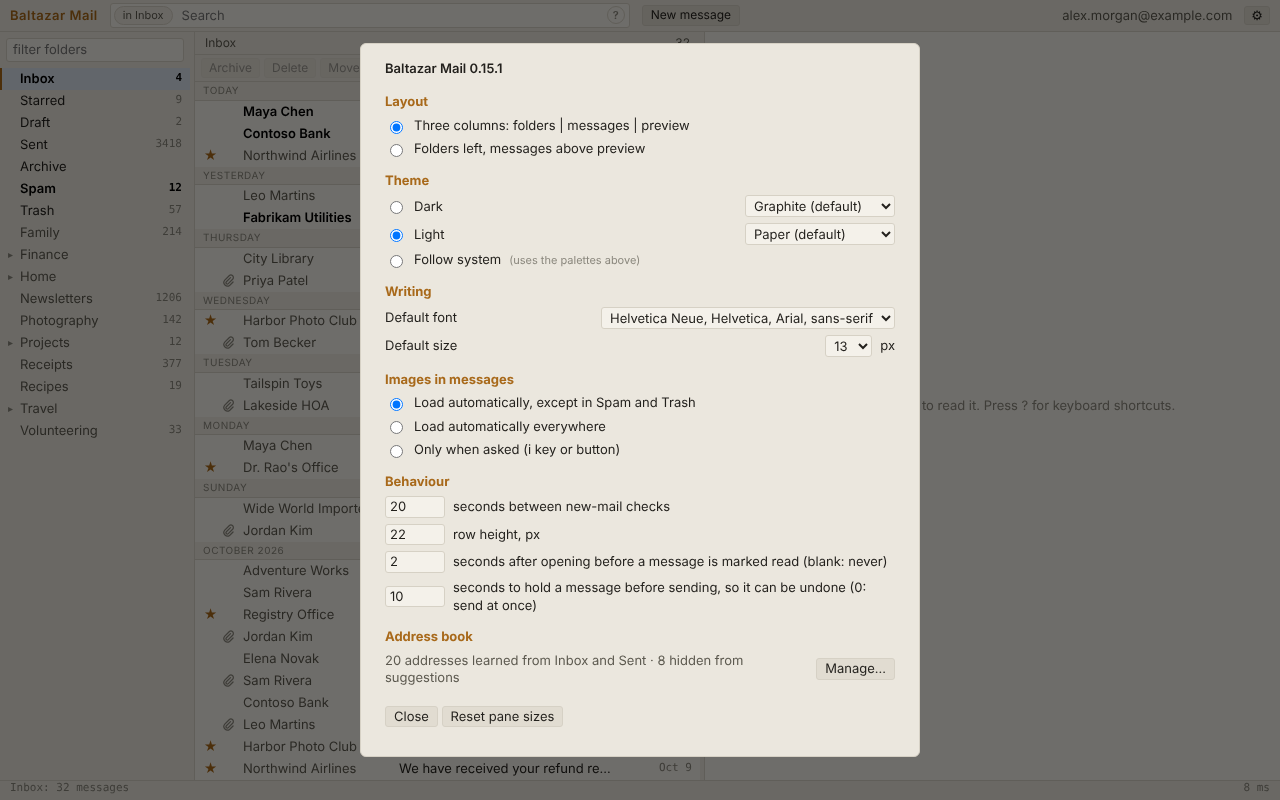
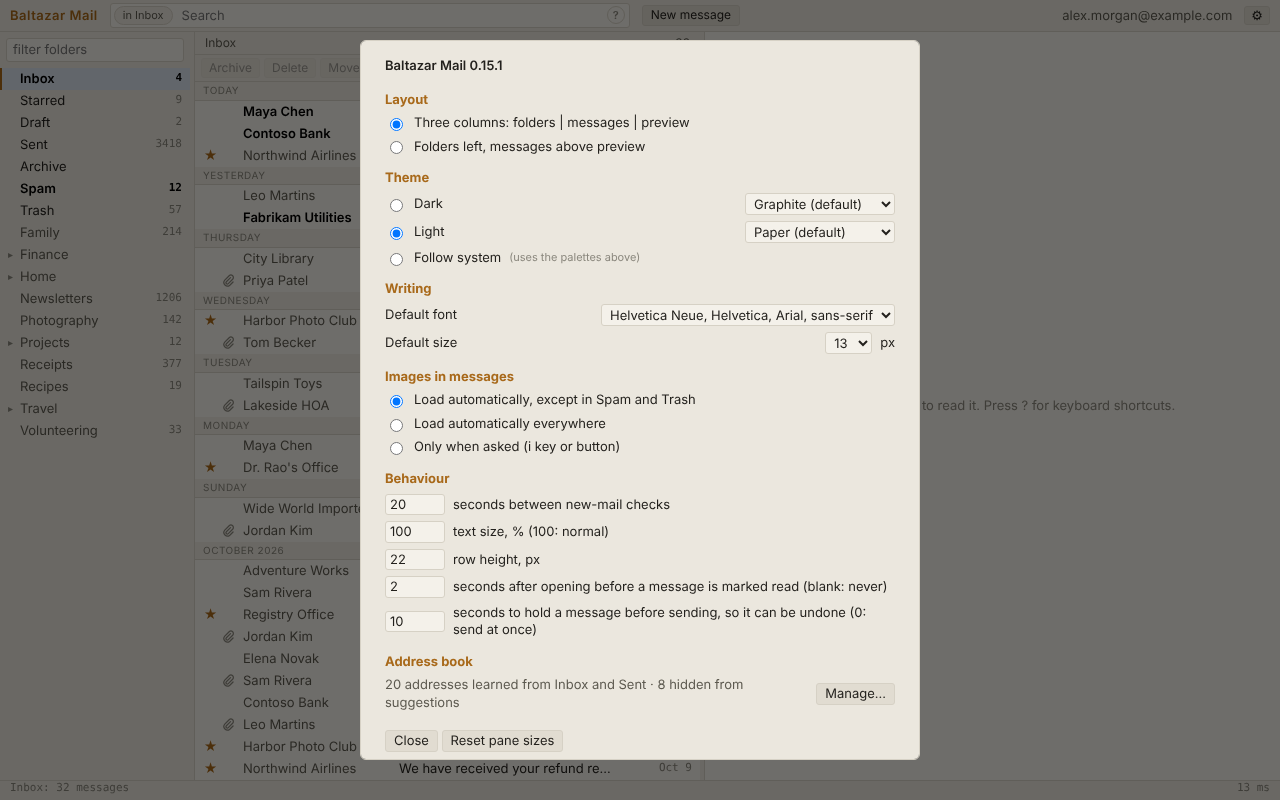
Add a text size setting that scales the whole interface and the message
Every fixed size is now a fraction of one base size, so a single percentage keeps today's
proportions; rows grow with the text and the reader zooms by the same factor.

diff --git a/ext/mail.css b/ext/mail.css
@@ -2,7 +2,7 @@
   --bg: #15181c; --bg2: #1c2026; --bg3: #242a31; --fg: #d8d4c8; --fg2: #9a968c; --fg3: #6c6962;
   --line: #2c333b; --sel: #2f3a48; --sel-line: #4f6a8a; --accent: #d9a441; --unread: #f0ece0; --link: #7fb3e0;
   --font: ui-sans-serif, "Segoe UI", system-ui, sans-serif; --mono: ui-monospace, Consolas, monospace;
-  --row-h: 22px; --fs: 13px;
+  --row-h: 22px; --fs: 13px; --fu: calc(var(--fs) / 13);
   --folder-w: 230px; --list-w: 460px; --list-h: 40%;
 }
 :root[data-theme="light"] {
@@ -43,27 +43,27 @@ body.dragging iframe { pointer-events: none; }
 #search-box:focus-within { border-color: var(--sel-line); }
 #search { flex: 1; min-width: 0; background: transparent; color: var(--fg); border: 0; padding: 3px 5px; font: inherit; }
 #search:focus { outline: none; }
-#search-scope { flex: none; max-width: 45%; overflow: hidden; text-overflow: ellipsis; white-space: nowrap; border: 1px solid var(--line); background: var(--bg2); color: var(--fg2); border-radius: 10px; padding: 0 8px; font-size: 11px; line-height: 17px; cursor: pointer; }
+#search-scope { flex: none; max-width: 45%; overflow: hidden; text-overflow: ellipsis; white-space: nowrap; border: 1px solid var(--line); background: var(--bg2); color: var(--fg2); border-radius: 10px; padding: 0 8px; font-size: calc(11 * var(--fu)); line-height: 17px; cursor: pointer; }
 #search-scope:hover { border-color: var(--accent); color: var(--fg); }
 #search-scope.off { border-style: dashed; color: var(--fg3); }
 #search-scope.hidden { display: none; }
-#search-help-btn { flex: none; width: 18px; height: 18px; border-radius: 50%; border: 1px solid var(--line); background: transparent; color: var(--fg3); font-size: 11px; font-weight: 600; line-height: 16px; padding: 0; cursor: pointer; margin-right: 2px; }
+#search-help-btn { flex: none; width: 18px; height: 18px; border-radius: 50%; border: 1px solid var(--line); background: transparent; color: var(--fg3); font-size: calc(11 * var(--fu)); font-weight: 600; line-height: 16px; padding: 0; cursor: pointer; margin-right: 2px; }
 #search-help-btn:hover, #search-help-btn.on { color: var(--fg); border-color: var(--accent); }
-#search-help { position: fixed; z-index: 70; width: 560px; max-width: calc(100vw - 24px); background: var(--bg2); color: var(--fg); border: 1px solid var(--line); border-radius: 6px; box-shadow: 0 8px 28px rgba(0,0,0,.35); padding: 12px 16px 10px; font-size: 12px; }
+#search-help { position: fixed; z-index: 70; width: 560px; max-width: calc(100vw - 24px); background: var(--bg2); color: var(--fg); border: 1px solid var(--line); border-radius: 6px; box-shadow: 0 8px 28px rgba(0,0,0,.35); padding: 12px 16px 10px; font-size: calc(12 * var(--fu)); }
 #search-help.hidden { display: none; }
 #search-help .sh-title { font-weight: 600; margin-bottom: 8px; display: flex; justify-content: space-between; align-items: baseline; }
-#search-help .sh-title span { font-weight: 400; color: var(--fg3); font-size: 11px; }
+#search-help .sh-title span { font-weight: 400; color: var(--fg3); font-size: calc(11 * var(--fu)); }
 #search-help table { border-collapse: collapse; width: 100%; }
 #search-help td { padding: 3px 0; vertical-align: top; border-top: 1px solid var(--line); }
 #search-help td:first-child { padding-right: 14px; white-space: nowrap; }
 #search-help td:last-child { color: var(--fg2); }
-#search-help code { font-family: var(--mono); font-size: 11.5px; background: var(--bg); border: 1px solid var(--line); border-radius: 3px; padding: 0 4px; color: var(--accent); }
+#search-help code { font-family: var(--mono); font-size: calc(11.5 * var(--fu)); background: var(--bg); border: 1px solid var(--line); border-radius: 3px; padding: 0 4px; color: var(--accent); }
 #search-help td:first-child code { cursor: pointer; }
 #search-help td:first-child code:hover { border-color: var(--accent); }
 #search-help .sh-notes { margin-top: 8px; color: var(--fg2); line-height: 1.5; }
 #search-help .sh-notes p { margin: 4px 0; }
-.elsewhere { display: flex; justify-content: space-between; align-items: center; gap: 12px; padding: 5px 8px; margin-top: 6px; font-size: 11px; color: var(--fg2); background: var(--bg2); border-top: 1px solid var(--line); border-bottom: 1px solid var(--line); }
-.elsewhere a, .else-link { color: var(--accent); text-decoration: none; font-size: 11px; font-weight: 400; }
+.elsewhere { display: flex; justify-content: space-between; align-items: center; gap: 12px; padding: 5px 8px; margin-top: 6px; font-size: calc(11 * var(--fu)); color: var(--fg2); background: var(--bg2); border-top: 1px solid var(--line); border-bottom: 1px solid var(--line); }
+.elsewhere a, .else-link { color: var(--accent); text-decoration: none; font-size: calc(11 * var(--fu)); font-weight: 400; }
 .elsewhere a:hover, .else-link:hover { text-decoration: underline; }
 .row.else:not(.sel) { opacity: .8; }
 #account { color: var(--fg2); margin-left: auto; }
@@ -75,23 +75,23 @@ body.dragging iframe { pointer-events: none; }
 .folder:hover { background: var(--bg3); }
 .folder.active { background: var(--sel); color: var(--fg); box-shadow: inset 2px 0 var(--accent); }
 .folder.kb { outline: 1px solid var(--sel-line); outline-offset: -1px; }
-.folder .tw { width: 12px; color: var(--fg3); font-size: 10px; flex: none; }
+.folder .tw { width: 12px; color: var(--fg3); font-size: calc(10 * var(--fu)); flex: none; }
 .folder .nm { overflow: hidden; text-overflow: ellipsis; }
-.folder .ct { margin-left: auto; padding-left: 8px; color: var(--fg3); font-size: 11px; font-family: var(--mono); }
+.folder .ct { margin-left: auto; padding-left: 8px; color: var(--fg3); font-size: calc(11 * var(--fu)); font-family: var(--mono); }
 .folder.unread .nm, .folder.unread .ct { color: var(--unread); font-weight: 600; }
 .folder.sys { color: var(--fg); }
 
 #list { grid-area: list; display: flex; flex-direction: column; min-width: 0; min-height: 0; }
 #list:focus { outline: none; }
-#list-head { display: flex; justify-content: space-between; padding: 3px 10px; color: var(--fg2); border-bottom: 1px solid var(--line); background: var(--bg2); font-size: 12px; }
+#list-head { display: flex; justify-content: space-between; padding: 3px 10px; color: var(--fg2); border-bottom: 1px solid var(--line); background: var(--bg2); font-size: calc(12 * var(--fu)); }
 #toolbar { display: flex; gap: 4px; padding: 3px 6px; border-bottom: 1px solid var(--line); background: var(--bg2); }
 #toolbar .sp { flex: 1; }
-#toolbar button { font-size: 12px; padding: 1px 7px; }
+#toolbar button { font-size: calc(12 * var(--fu)); padding: 1px 7px; }
 #toolbar button:disabled { opacity: .4; cursor: default; }
 #rows { overflow-y: auto; flex: 1; display: flex; flex-direction: column; }
 #rows > * { flex: none; }
 #rows > .list-empty { flex: 1; display: flex; flex-direction: column; align-items: center; justify-content: center; gap: 6px; padding: 24px; text-align: center; color: var(--fg3); }
-#rows > .list-empty .sub { font-size: 11px; }
+#rows > .list-empty .sub { font-size: calc(11 * var(--fu)); }
 .row.marked { background: var(--sel); }
 
 .row.dragging { opacity: .5; }
@@ -107,7 +107,7 @@ body.dragging iframe { pointer-events: none; }
 #move-list div { padding: 2px 14px; cursor: pointer; white-space: nowrap; overflow: hidden; text-overflow: ellipsis; }
 #move-list div.kb, #move-list div:hover { background: var(--sel); }
 #st-undo { color: var(--fg2); }
-.row { display: grid; grid-template-columns: 15px 13px 150px 1fr 74px; gap: 6px; align-items: center; height: var(--row-h); padding: 0 8px; cursor: pointer; border-bottom: 1px solid transparent; white-space: nowrap; }
+.row { display: grid; grid-template-columns: calc(15 * var(--fu)) calc(13 * var(--fu)) calc(150 * var(--fu)) 1fr calc(74 * var(--fu)); gap: 6px; align-items: center; height: var(--row-h); padding: 0 8px; cursor: pointer; border-bottom: 1px solid transparent; white-space: nowrap; }
 .row:hover { background: var(--bg3); }
 .row.sel { background: var(--sel); box-shadow: inset 2px 0 var(--accent); }
 .row > span { overflow: hidden; text-overflow: ellipsis; }
@@ -116,32 +116,32 @@ body.dragging iframe { pointer-events: none; }
 .row .fl path { stroke-width: 1.5; }
 .row.unread .fl { color: var(--fg); }
 .row.unread .fl path { stroke-width: 1.9; }
-.row .st { text-align: center; font-size: 13px; color: transparent; cursor: pointer; }
+.row .st { text-align: center; font-size: calc(13 * var(--fu)); color: transparent; cursor: pointer; }
 .row:hover .st { color: var(--fg3); }
 .row .st:hover { color: var(--accent); }
 .row .st.on { color: var(--accent); }
 .row .fr { color: var(--fg2); }
 .row .sb { color: var(--fg); }
-.row .sb em { font-style: normal; color: var(--fg2); font-size: 11px; margin-left: 6px; }
-.row .dt { color: var(--fg3); font-family: var(--mono); font-size: 11px; text-align: right; }
+.row .sb em { font-style: normal; color: var(--fg2); font-size: calc(11 * var(--fu)); margin-left: 6px; }
+.row .dt { color: var(--fg3); font-family: var(--mono); font-size: calc(11 * var(--fu)); text-align: right; }
 .row.unread .fr, .row.unread .sb { color: var(--unread); font-weight: 600; }
 .row .sb mark { background: none; color: var(--accent); }
-.day { padding: 2px 8px; color: var(--fg3); font-size: 10px; letter-spacing: .5px; text-transform: uppercase; border-bottom: 1px solid var(--line); background: var(--bg2); position: sticky; top: 0; }
+.day { padding: 2px 8px; color: var(--fg3); font-size: calc(10 * var(--fu)); letter-spacing: .5px; text-transform: uppercase; border-bottom: 1px solid var(--line); background: var(--bg2); position: sticky; top: 0; }
 #more { text-align: center; padding: 6px; border-top: 1px solid var(--line); }
 
 #reader { grid-area: reader; display: flex; flex-direction: column; min-width: 0; min-height: 0; }
 #reader-empty { margin: auto; color: var(--fg3); }
 #reader-head { padding: 10px 16px 8px; border-bottom: 1px solid var(--line); background: var(--bg2); }
-#r-subject { font-size: 16px; font-weight: 600; margin-bottom: 6px; color: var(--unread); }
-.r-meta { display: flex; gap: 8px; align-items: baseline; color: var(--fg2); font-size: 12px; }
+#r-subject { font-size: calc(16 * var(--fu)); font-weight: 600; margin-bottom: 6px; color: var(--unread); }
+.r-meta { display: flex; gap: 8px; align-items: baseline; color: var(--fg2); font-size: calc(12 * var(--fu)); }
 .r-meta .k { width: 36px; color: var(--fg3); flex: none; }
 #r-folder { margin-left: 12px; color: var(--fg3); }
-#r-images { margin-left: auto; font-size: 11px; }
+#r-images { margin-left: auto; font-size: calc(11 * var(--fu)); }
 
 #r-body { flex: 1; border: 0; background: #fff; }
 :root[data-theme="dark"] #r-body { background: #fff; }
 
-#status { grid-area: status; display: flex; justify-content: space-between; padding: 0 10px; font-size: 11px; color: var(--fg3); background: var(--bg2); border-top: 1px solid var(--line); font-family: var(--mono); }
+#status { grid-area: status; display: flex; justify-content: space-between; padding: 0 10px; font-size: calc(11 * var(--fu)); color: var(--fg3); background: var(--bg2); border-top: 1px solid var(--line); font-family: var(--mono); }
 
 #signin { display: flex; flex-direction: column; align-items: center; justify-content: center; height: 100%; gap: 8px; }
 #help { position: fixed; inset: 0; background: rgba(0,0,0,.55); display: flex; align-items: center; justify-content: center; }
@@ -149,31 +149,31 @@ body.dragging iframe { pointer-events: none; }
 #help td { padding: 2px 14px 2px 0; }
 #help td:first-child { font-family: var(--mono); color: var(--accent); }
 
-#compose-btn { font-size: 12px; }
+#compose-btn { font-size: calc(12 * var(--fu)); }
 .r-actions { margin-left: 12px; display: inline-flex; gap: 4px; }
-.r-actions button { font-size: 11px; padding: 0 6px; }
+.r-actions button { font-size: calc(11 * var(--fu)); padding: 0 6px; }
 #compose { grid-area: reader; display: flex; flex-direction: column; min-width: 0; min-height: 0; background: var(--bg); }
 #compose.drop { outline: 2px dashed var(--sel-line); outline-offset: -4px; }
 #c-head { display: flex; align-items: center; gap: 8px; padding: 6px 12px; background: var(--bg2); border-bottom: 1px solid var(--line); font-weight: 600; }
 #c-head .sp, #c-foot .sp { flex: 1; }
 #c-head select, #c-from { background: var(--bg); color: var(--fg); border: 1px solid var(--line); border-radius: 3px; padding: 2px 6px; font: inherit; }
 .c-row { display: flex; align-items: center; gap: 8px; padding: 3px 12px; border-bottom: 1px solid var(--line); }
-.c-row label { width: 52px; color: var(--fg3); font-size: 12px; flex: none; }
+.c-row label { width: 52px; color: var(--fg3); font-size: calc(12 * var(--fu)); flex: none; }
 .c-row input, .c-row select { flex: 1; background: transparent; color: var(--fg); border: 0; padding: 3px 0; font: inherit; }
 .c-row input:focus { outline: none; }
-.c-row button { font-size: 11px; padding: 0 6px; }
+.c-row button { font-size: calc(11 * var(--fu)); padding: 0 6px; }
 #c-toolbar { display: flex; gap: 3px; padding: 4px 12px; border-bottom: 1px solid var(--line); background: var(--bg2); }
 #c-toolbar { flex-wrap: wrap; align-items: center; }
-#c-toolbar button { font-size: 12px; padding: 0 6px; min-width: 26px; height: 22px; }
-#c-toolbar select { background: var(--bg); color: var(--fg); border: 1px solid var(--line); border-radius: 3px; font: inherit; font-size: 12px; height: 22px; }
+#c-toolbar button { font-size: calc(12 * var(--fu)); padding: 0 6px; min-width: 26px; height: 22px; }
+#c-toolbar select { background: var(--bg); color: var(--fg); border: 1px solid var(--line); border-radius: 3px; font: inherit; font-size: calc(12 * var(--fu)); height: 22px; }
 #c-font { width: 110px; } #c-size { width: 58px; }
 .tb-sep { width: 1px; height: 18px; background: var(--line); margin: 0 3px; }
 .tb-pal { font-weight: 600; }
 #c-palette { position: fixed; z-index: 45; background: var(--bg2); border: 1px solid var(--line); border-radius: 4px; padding: 8px; box-shadow: 0 4px 16px rgba(0,0,0,.35); width: 226px; }
-#c-palette .pal-default { display: block; width: 100%; margin-bottom: 6px; text-align: left; font-size: 12px; }
+#c-palette .pal-default { display: block; width: 100%; margin-bottom: 6px; text-align: left; font-size: calc(12 * var(--fu)); }
 #c-palette .sw { display: inline-block; width: 20px; height: 20px; margin: 2px; border: 1px solid rgba(0,0,0,.25); border-radius: 3px; cursor: pointer; vertical-align: top; }
 #c-palette .sw:hover { outline: 2px solid var(--sel-line); }
-.tb-color { position: relative; display: inline-flex; align-items: center; justify-content: center; width: 26px; height: 22px; border: 1px solid var(--line); border-radius: 3px; background: var(--bg3); cursor: pointer; font-size: 12px; font-weight: 600; }
+.tb-color { position: relative; display: inline-flex; align-items: center; justify-content: center; width: 26px; height: 22px; border: 1px solid var(--line); border-radius: 3px; background: var(--bg3); cursor: pointer; font-size: calc(12 * var(--fu)); font-weight: 600; }
 .tb-color input { position: absolute; inset: 0; opacity: 0; cursor: pointer; width: 100%; height: 100%; }
 #c-editor img { max-width: 100%; height: auto; }
 #c-editor img.sel { outline: 2px solid var(--sel-line); }
@@ -181,13 +181,13 @@ body.dragging iframe { pointer-events: none; }
 #c-editor:focus, #c-text:focus { outline: none; }
 #c-editor blockquote { border-left: 2px solid #bbb; margin: 4px 0; padding-left: 10px; color: #444; }
 #c-quote-wrap { background: #fff; padding: 0 14px 8px; }
-#c-quote-toggle { font-size: 11px; color: #555; background: #eee; border-color: #ddd; }
+#c-quote-toggle { font-size: calc(11 * var(--fu)); color: #555; background: #eee; border-color: #ddd; }
 #c-quote { margin-top: 6px; }
 #c-quote iframe { display: block; width: 100%; height: 40vh; border: 0; background: #fff; }
 #c-quote pre { white-space: pre-wrap; font: inherit; }
 #c-filelist { display: flex; flex-wrap: wrap; gap: 6px; padding: 0 12px; background: var(--bg2); }
 #c-filelist:not(:empty) { padding: 6px 12px; border-top: 1px solid var(--line); }
-.c-file { background: var(--bg3); border: 1px solid var(--line); border-radius: 3px; padding: 1px 8px; font-size: 12px; }
+.c-file { background: var(--bg3); border: 1px solid var(--line); border-radius: 3px; padding: 1px 8px; font-size: calc(12 * var(--fu)); }
 .c-file i { color: var(--fg3); font-style: normal; margin-left: 4px; }
 .c-file a { color: var(--fg2); text-decoration: none; margin-left: 4px; }
 #c-foot { display: flex; align-items: center; gap: 6px; padding: 6px 12px; border-top: 1px solid var(--line); background: var(--bg2); }
@@ -197,7 +197,7 @@ body.dragging iframe { pointer-events: none; }
 .addr { flex: 1; display: flex; flex-wrap: wrap; gap: 4px; align-items: center; min-height: 22px; cursor: text; }
 .addr input { flex: 1; min-width: 160px; background: transparent; color: var(--fg); border: 0; padding: 2px 0; font: inherit; }
 .addr input:focus { outline: none; }
-.chip { display: inline-flex; align-items: center; gap: 4px; background: var(--bg3); border: 1px solid var(--line); border-radius: 10px; padding: 0 4px 0 8px; font-size: 12px; max-width: 320px; }
+.chip { display: inline-flex; align-items: center; gap: 4px; background: var(--bg3); border: 1px solid var(--line); border-radius: 10px; padding: 0 4px 0 8px; font-size: calc(12 * var(--fu)); max-width: 320px; }
 .chip span { overflow: hidden; text-overflow: ellipsis; white-space: nowrap; }
 .chip b { font-weight: 500; }
 .chip i { font-style: normal; color: var(--fg3); }
@@ -206,7 +206,7 @@ body.dragging iframe { pointer-events: none; }
 #c-suggest { position: fixed; z-index: 40; background: var(--bg2); border: 1px solid var(--line); border-radius: 4px; box-shadow: 0 4px 16px rgba(0,0,0,.35); min-width: 280px; max-width: 480px; padding: 3px 0; }
 #c-suggest div { display: flex; align-items: center; gap: 8px; padding: 3px 6px 3px 12px; cursor: pointer; white-space: nowrap; }
 #c-suggest div > span { flex: 1; overflow: hidden; text-overflow: ellipsis; }
-#c-suggest .hide { color: var(--fg3); text-decoration: none; width: 18px; height: 18px; line-height: 16px; text-align: center; border-radius: 9px; font-size: 13px; flex: none; opacity: 0; }
+#c-suggest .hide { color: var(--fg3); text-decoration: none; width: 18px; height: 18px; line-height: 16px; text-align: center; border-radius: 9px; font-size: calc(13 * var(--fu)); flex: none; opacity: 0; }
 #c-suggest div:hover .hide, #c-suggest div.kb .hide { opacity: 1; }
 #c-suggest .hide:hover { background: var(--bg3); color: var(--fg); }
 #settings-box { width: 560px; max-width: 94vw; max-height: 90vh; overflow-y: auto; box-sizing: border-box; }
@@ -224,18 +224,18 @@ body.dragging iframe { pointer-events: none; }
 #ab-filter { flex: 1; background: var(--bg); color: var(--fg); border: 1px solid var(--line); border-radius: 3px; padding: 3px 8px; font: inherit; }
 #ab-filter:focus { outline: none; border-color: var(--sel-line); }
 .ab-seg { display: inline-flex; border: 1px solid var(--line); border-radius: 4px; overflow: hidden; flex: none; }
-.ab-seg button { background: var(--bg); color: var(--fg2); border: 0; padding: 3px 10px; font: inherit; font-size: 12px; cursor: pointer; }
+.ab-seg button { background: var(--bg); color: var(--fg2); border: 0; padding: 3px 10px; font: inherit; font-size: calc(12 * var(--fu)); cursor: pointer; }
 .ab-seg button + button { border-left: 1px solid var(--line); }
 .ab-seg button.on { background: var(--sel); color: var(--fg); }
-.ab-seg i { font-style: normal; color: var(--fg3); font-size: 11px; margin-left: 2px; }
+.ab-seg i { font-style: normal; color: var(--fg3); font-size: calc(11 * var(--fu)); margin-left: 2px; }
 #ab-list { height: min(52vh, 420px); overflow-y: auto; border: 1px solid var(--line); border-radius: 4px; background: var(--bg); }
-.ab-item { display: grid; grid-template-columns: 1fr auto 82px 26px; gap: 10px; align-items: center; padding: 4px 8px; border-bottom: 1px solid var(--line); font-size: 12px; }
+.ab-item { display: grid; grid-template-columns: 1fr auto 82px 26px; gap: 10px; align-items: center; padding: 4px 8px; border-bottom: 1px solid var(--line); font-size: calc(12 * var(--fu)); }
 .ab-item:hover { background: var(--bg2); }
 .ab-who { min-width: 0; display: flex; flex-direction: column; }
 .ab-name, .ab-mail { overflow: hidden; text-overflow: ellipsis; white-space: nowrap; }
-.ab-mail { color: var(--fg3); font-size: 11px; }
-.ab-stats { color: var(--fg3); font-size: 11px; font-family: var(--mono); white-space: nowrap; }
-.ab-last { color: var(--fg3); font-size: 11px; text-align: right; white-space: nowrap; }
+.ab-mail { color: var(--fg3); font-size: calc(11 * var(--fu)); }
+.ab-stats { color: var(--fg3); font-size: calc(11 * var(--fu)); font-family: var(--mono); white-space: nowrap; }
+.ab-last { color: var(--fg3); font-size: calc(11 * var(--fu)); text-align: right; white-space: nowrap; }
 .ab-eye { width: 24px; height: 22px; border: 1px solid transparent; border-radius: 4px; background: none; color: var(--fg2); cursor: pointer; padding: 0; display: flex; align-items: center; justify-content: center; }
 .ab-eye:hover { border-color: var(--line); color: var(--fg); }
 .ab-eye svg { width: 16px; height: 16px; }
@@ -243,7 +243,7 @@ body.dragging iframe { pointer-events: none; }
 .ab-item.off .ab-name { text-decoration: line-through; text-decoration-color: var(--fg3); }
 .ab-item.off .ab-eye { color: var(--accent); }
 .ab-empty { padding: 30px 12px; text-align: center; color: var(--fg3); }
-.ab-foot { display: flex; align-items: center; gap: 10px; min-height: 24px; font-size: 11px; color: var(--fg3); }
+.ab-foot { display: flex; align-items: center; gap: 10px; min-height: 24px; font-size: calc(11 * var(--fu)); color: var(--fg3); }
 .ab-foot span { flex: 1; }
 #ab-bulk.hidden { display: none; }
 #c-suggest div.kb, #c-suggest div:hover { background: var(--sel); }
@@ -251,31 +251,31 @@ body.dragging iframe { pointer-events: none; }
 
 .who { cursor: default; border-bottom: 1px dotted transparent; }
 .who:hover { border-bottom-color: var(--fg3); color: var(--fg); }
-#card { position: fixed; z-index: 50; width: 340px; background: var(--bg2); border: 1px solid var(--line); border-radius: 6px; box-shadow: 0 6px 20px rgba(0,0,0,.4); padding: 10px 12px; font-size: 12px; }
-.card-head b { display: block; font-size: 14px; color: var(--fg); }
+#card { position: fixed; z-index: 50; width: 340px; background: var(--bg2); border: 1px solid var(--line); border-radius: 6px; box-shadow: 0 6px 20px rgba(0,0,0,.4); padding: 10px 12px; font-size: calc(12 * var(--fu)); }
+.card-head b { display: block; font-size: calc(14 * var(--fu)); color: var(--fg); }
 .card-head span { color: var(--fg2); }
 .card-stats { margin: 6px 0; color: var(--fg2); line-height: 1.5; }
 .card-actions { display: flex; gap: 6px; margin-bottom: 8px; }
-.card-actions button { font-size: 11px; }
+.card-actions button { font-size: calc(11 * var(--fu)); }
 .card-recent { border-top: 1px solid var(--line); padding-top: 6px; cursor: pointer; }
 .card-recent div { display: flex; gap: 6px; padding: 1px 0; }
 .card-recent div:hover .subj { color: var(--fg); }
 .card-recent .dir { color: var(--accent); width: 12px; flex: none; }
 .card-recent .subj { flex: 1; overflow: hidden; text-overflow: ellipsis; white-space: nowrap; color: var(--fg2); }
-.card-recent .dt { color: var(--fg3); font-family: var(--mono); font-size: 10px; }
+.card-recent .dt { color: var(--fg3); font-family: var(--mono); font-size: calc(10 * var(--fu)); }
 .card-recent i { color: var(--fg3); }
 
 /* attachment strip under the body */
 #r-attach { flex: none; display: flex; gap: 8px; align-items: stretch; padding: 8px 12px; border-top: 1px solid var(--line); background: var(--bg2); overflow-x: auto; }
-#r-attach .att-head { flex: none; display: flex; flex-direction: column; justify-content: center; font-size: 11px; color: var(--fg3); padding-right: 4px; min-width: 70px; }
-#r-attach .att-head b { color: var(--fg2); font-weight: 600; font-size: 12px; }
+#r-attach .att-head { flex: none; display: flex; flex-direction: column; justify-content: center; font-size: calc(11 * var(--fu)); color: var(--fg3); padding-right: 4px; min-width: 70px; }
+#r-attach .att-head b { color: var(--fg2); font-weight: 600; font-size: calc(12 * var(--fu)); }
 .att-card { flex: none; display: flex; align-items: center; gap: 8px; width: 210px; padding: 4px; text-decoration: none; color: var(--fg2); border: 1px solid var(--line); border-radius: 4px; background: var(--bg); cursor: pointer; }
 .att-card:hover { border-color: var(--sel-line); background: var(--bg3); }
 .att-thumb { flex: none; width: 44px; height: 44px; display: flex; align-items: center; justify-content: center; border-radius: 3px; overflow: hidden; font: 700 10px var(--mono); color: #fff; }
 .att-thumb img { width: 100%; height: 100%; object-fit: cover; }
 .att-info { min-width: 0; display: flex; flex-direction: column; }
-.att-name { font-size: 12px; color: var(--fg); white-space: nowrap; overflow: hidden; text-overflow: ellipsis; }
-.att-size { font-size: 11px; color: var(--fg3); }
+.att-name { font-size: calc(12 * var(--fu)); color: var(--fg); white-space: nowrap; overflow: hidden; text-overflow: ellipsis; }
+.att-size { font-size: calc(11 * var(--fu)); color: var(--fg3); }
 .k-pdf { background: #c0392b; } .k-doc { background: #2b5797; } .k-sheet { background: #1e7145; } .k-slide { background: #c55a11; }
 .k-image { background: #6c3483; } .k-text { background: #5d6d7e; } .k-code { background: #34495e; } .k-zip { background: #8e6c1b; }
 .k-audio { background: #148f77; } .k-video { background: #943126; } .k-html { background: #b7950b; } .k-other { background: #707b7c; }
@@ -285,11 +285,11 @@ body.dragging iframe { pointer-events: none; }
 #v-box { width: min(1200px, 92vw); height: 90vh; display: flex; flex-direction: column; background: var(--bg2); border: 1px solid var(--line); border-radius: 6px; overflow: hidden; box-shadow: 0 10px 40px rgba(0,0,0,.5); }
 #v-bar { display: flex; align-items: center; gap: 6px; padding: 6px 10px; border-bottom: 1px solid var(--line); }
 #v-bar .sp { flex: 1; }
-#v-bar button { font-size: 12px; }
-#v-prev, #v-next { width: 26px; font-size: 15px; padding: 0; }
-#v-close { width: 28px; font-size: 16px; padding: 0; }
+#v-bar button { font-size: calc(12 * var(--fu)); }
+#v-prev, #v-next { width: 26px; font-size: calc(15 * var(--fu)); padding: 0; }
+#v-close { width: 28px; font-size: calc(16 * var(--fu)); padding: 0; }
 #v-name { font-weight: 600; color: var(--fg); margin-left: 6px; white-space: nowrap; overflow: hidden; text-overflow: ellipsis; max-width: 50%; }
-#v-meta { color: var(--fg3); font-size: 12px; }
+#v-meta { color: var(--fg3); font-size: calc(12 * var(--fu)); }
 #v-body { flex: 1; min-height: 0; overflow: auto; background: #fff; color: #111; position: relative; }
 #v-body .v-center { height: 100%; display: flex; align-items: center; justify-content: center; flex-direction: column; gap: 10px; color: #555; font-size: 13px; }
 #v-body img.v-img { max-width: 100%; max-height: 100%; display: block; margin: auto; position: absolute; inset: 0; cursor: zoom-in; }
@@ -325,10 +325,10 @@ body.dragging iframe { pointer-events: none; }
 #v-body .v-page { background: #fff; color: #000; width: min(900px, calc(100% - 24px)); margin: 0 auto 12px; box-shadow: 0 1px 4px rgba(0,0,0,.3); overflow: auto; }
 #v-body .v-more { text-align: center; color: #777; font-size: 12px; padding: 10px 0 18px; background: #e8e8e8; }
 
-.help-sub { color: var(--fg2); font-size: 11px; line-height: 1.7; padding-top: 6px !important; }
+.help-sub { color: var(--fg2); font-size: calc(11 * var(--fu)); line-height: 1.7; padding-top: 6px !important; }
 .help-sub code { background: var(--bg2); border: 1px solid var(--line); border-radius: 3px; padding: 0 4px; color: var(--fg); }
 
 .theme-row { display: flex; align-items: center; gap: 8px; }
 .theme-row label { flex: 1; }
 .theme-row select { min-width: 150px; }
-.theme-note { color: var(--fg3); font-size: 11px; }
+.theme-note { color: var(--fg3); font-size: calc(11 * var(--fu)); }

diff --git a/ext/mail.js b/ext/mail.js
@@ -14,7 +14,7 @@ const PAGE = 100;
 const DRAG_TYPE = "application/x-baltazar-mail-ids";
 
 // ---------- settings ----------
-const DEFAULTS = { layout: "vertical", theme: "light", darkTheme: "dark", lightTheme: "light", pollSec: 20, markReadSec: 2, undoSendSec: 10, composeHtml: true, composeFont: "Helvetica Neue, Helvetica, Arial, sans-serif", composeSize: 13, images: "safe", readerOriginal: false, rowH: 22, folderW: 230, listW: 460, listH: 40, expanded: [] };
+const DEFAULTS = { layout: "vertical", theme: "light", darkTheme: "dark", lightTheme: "light", pollSec: 20, markReadSec: 2, undoSendSec: 10, composeHtml: true, composeFont: "Helvetica Neue, Helvetica, Arial, sans-serif", composeSize: 13, images: "safe", readerOriginal: false, textPct: 100, rowH: 22, folderW: 230, listW: 460, listH: 40, expanded: [] };
 let settings = { ...DEFAULTS };
 
 async function loadSettings() {
@@ -44,7 +44,11 @@ function applyLayout() {
   r.setProperty("--folder-w", settings.folderW + "px");
   r.setProperty("--list-w", settings.listW + "px");
   r.setProperty("--list-h", settings.listH + "%");
-  r.setProperty("--row-h", settings.rowH + "px");
+  // Text size, as a percentage of the 13px design size, scales every text in the interface
+  // together; rows are never shorter than the text needs.
+  const fs = 13 * settings.textPct / 100;
+  r.setProperty("--fs", fs + "px");
+  r.setProperty("--row-h", Math.max(settings.rowH, Math.round(fs * 1.7)) + "px");
 }
 
 function syncSettingsForm() {
@@ -53,6 +57,7 @@ function syncSettingsForm() {
   for (const el of document.querySelectorAll("#settings input[type=radio]")) el.checked = settings[el.name] === el.value;
   $("poll").value = settings.pollSec;
   $("density").value = settings.rowH;
+  $("textpct").value = settings.textPct;
   $("markread").value = settings.markReadSec == null ? "" : settings.markReadSec;
   $("undosend").value = settings.undoSendSec;
   $("composeFont").value = settings.composeFont; $("composeSize").value = String(settings.composeSize);
@@ -663,6 +668,8 @@ function bodyDoc(html, images, look = "light") {
   return `<!DOCTYPE html><html><head><meta charset="utf-8"><meta http-equiv="Content-Security-Policy" content="${csp}">` +
     `<style>body{margin:12px 16px;font:14px/1.45 -apple-system,"Segoe UI",system-ui,sans-serif;color:${dark ? DARK.fg : "#111"};word-wrap:break-word}` +
     (dark ? `html{background:${DARK.bg};color-scheme:dark}a{color:${DARK.link}}` : look === "dim" ? "html{background:#fff;filter:brightness(.9)}" : "") +
+    // the text size setting zooms the message as a whole, so mail that fixes its own sizes follows too
+    (settings.textPct !== 100 ? `html{zoom:${settings.textPct / 100}}` : "") +
     `img{max-width:100%;height:auto${images ? "" : ";display:none"}}pre{white-space:pre-wrap}blockquote{border-left:3px solid ${dark ? DARK.rule : "#ccc"};margin:6px 0;padding-left:10px;color:${dark ? DARK.quote : "#444"}}</style></head>` +
     `<body>${html}</body></html>`;
 }
@@ -1397,6 +1404,11 @@ function wireSettings() {
   $("composeSize").onchange = () => { settings.composeSize = Number($("composeSize").value) || 13; saveSettings(); };
   $("undosend").onchange = () => { settings.undoSendSec = Math.min(60, Math.max(0, Number($("undosend").value) || 0)); saveSettings(); };
   $("markread").onchange = () => { const v = $("markread").value.trim(); settings.markReadSec = v === "" ? null : Math.max(0, Number(v) || 0); saveSettings(); };
+  $("textpct").onchange = () => {
+    settings.textPct = Math.min(150, Math.max(85, Math.round((Number($("textpct").value) || 100) / 5) * 5));
+    applySettings(); saveSettings();
+    if (currentBody && state.openId) showBody();
+  };
   $("density").onchange = () => { settings.rowH = Math.min(32, Math.max(18, Number($("density").value) || 22)); applySettings(); saveSettings(); };
   $("settings-close").onclick = () => openSettings(false);
   wireAddressBook();

diff --git a/ext/mail.html b/ext/mail.html
@@ -149,6 +149,7 @@
     <label><input type="radio" name="images" value="never"> Only when asked (i key or button)</label>
     <b>Behaviour</b>
     <label><input type="number" id="poll" min="5" max="600" step="5" style="width:60px"> seconds between new-mail checks</label>
+    <label><input type="number" id="textpct" min="85" max="150" step="5" style="width:60px"> text size, % (100: normal)</label>
     <label><input type="number" id="density" min="18" max="32" step="1" style="width:60px"> row height, px</label>
     <label><input type="number" id="markread" min="0" max="60" step="1" style="width:60px"> seconds after opening before a message is marked read (blank: never)</label>
     <label><input type="number" id="undosend" min="0" max="60" step="1" style="width:60px"> seconds to hold a message before sending, so it can be undone (0: send at once)</label>

diff --git a/README.md b/README.md
@@ -8,7 +8,7 @@ Baltazar Mail is an independent project by [Baltazar Studios](https://baltazarst
 
 ## Features
 
-- **Reading:** three-column or stacked layout with resizable panes, eleven light and dark palettes (one of them plain black on white), a Starred view across all folders, and remote images loaded automatically except in Spam and Trash. In a dark theme messages are darkened to match, keeping their colours' hues and leaving images alone; the ☀ button in the message header shows them in their original colours instead.
+- **Reading:** three-column or stacked layout with resizable panes, eleven light and dark palettes (one of them plain black on white), one text size setting that scales the whole interface and the message, a Starred view across all folders, and remote images loaded automatically except in Spam and Trash. In a dark theme messages are darkened to match, keeping their colours' hues and leaving images alone; the ☀ button in the message header shows them in their original colours instead.
 - **Mailbox actions:** read/unread, star, archive, move, delete, spam and not spam, on one message or a selection, with multi-level undo and redo.
 - **Search:** scoped to the open folder and its subfolders, with matches in other folders listed below a divider. Words must all match; `AND`, `OR`, `NOT`, parentheses, quoted phrases and the fields `from:` `to:` `subject:` `has:attachment` `is:starred` `is:unread` `after:` `before:` refine it. The `?` in the search box explains the syntax.
 - **Writing:** new message, reply, reply all and forward (with the original's attachments), drafts saved automatically, rich-text or plain-text editing with fonts, sizes and colours, pasted or dropped inline images, attachments, and undo-send.
